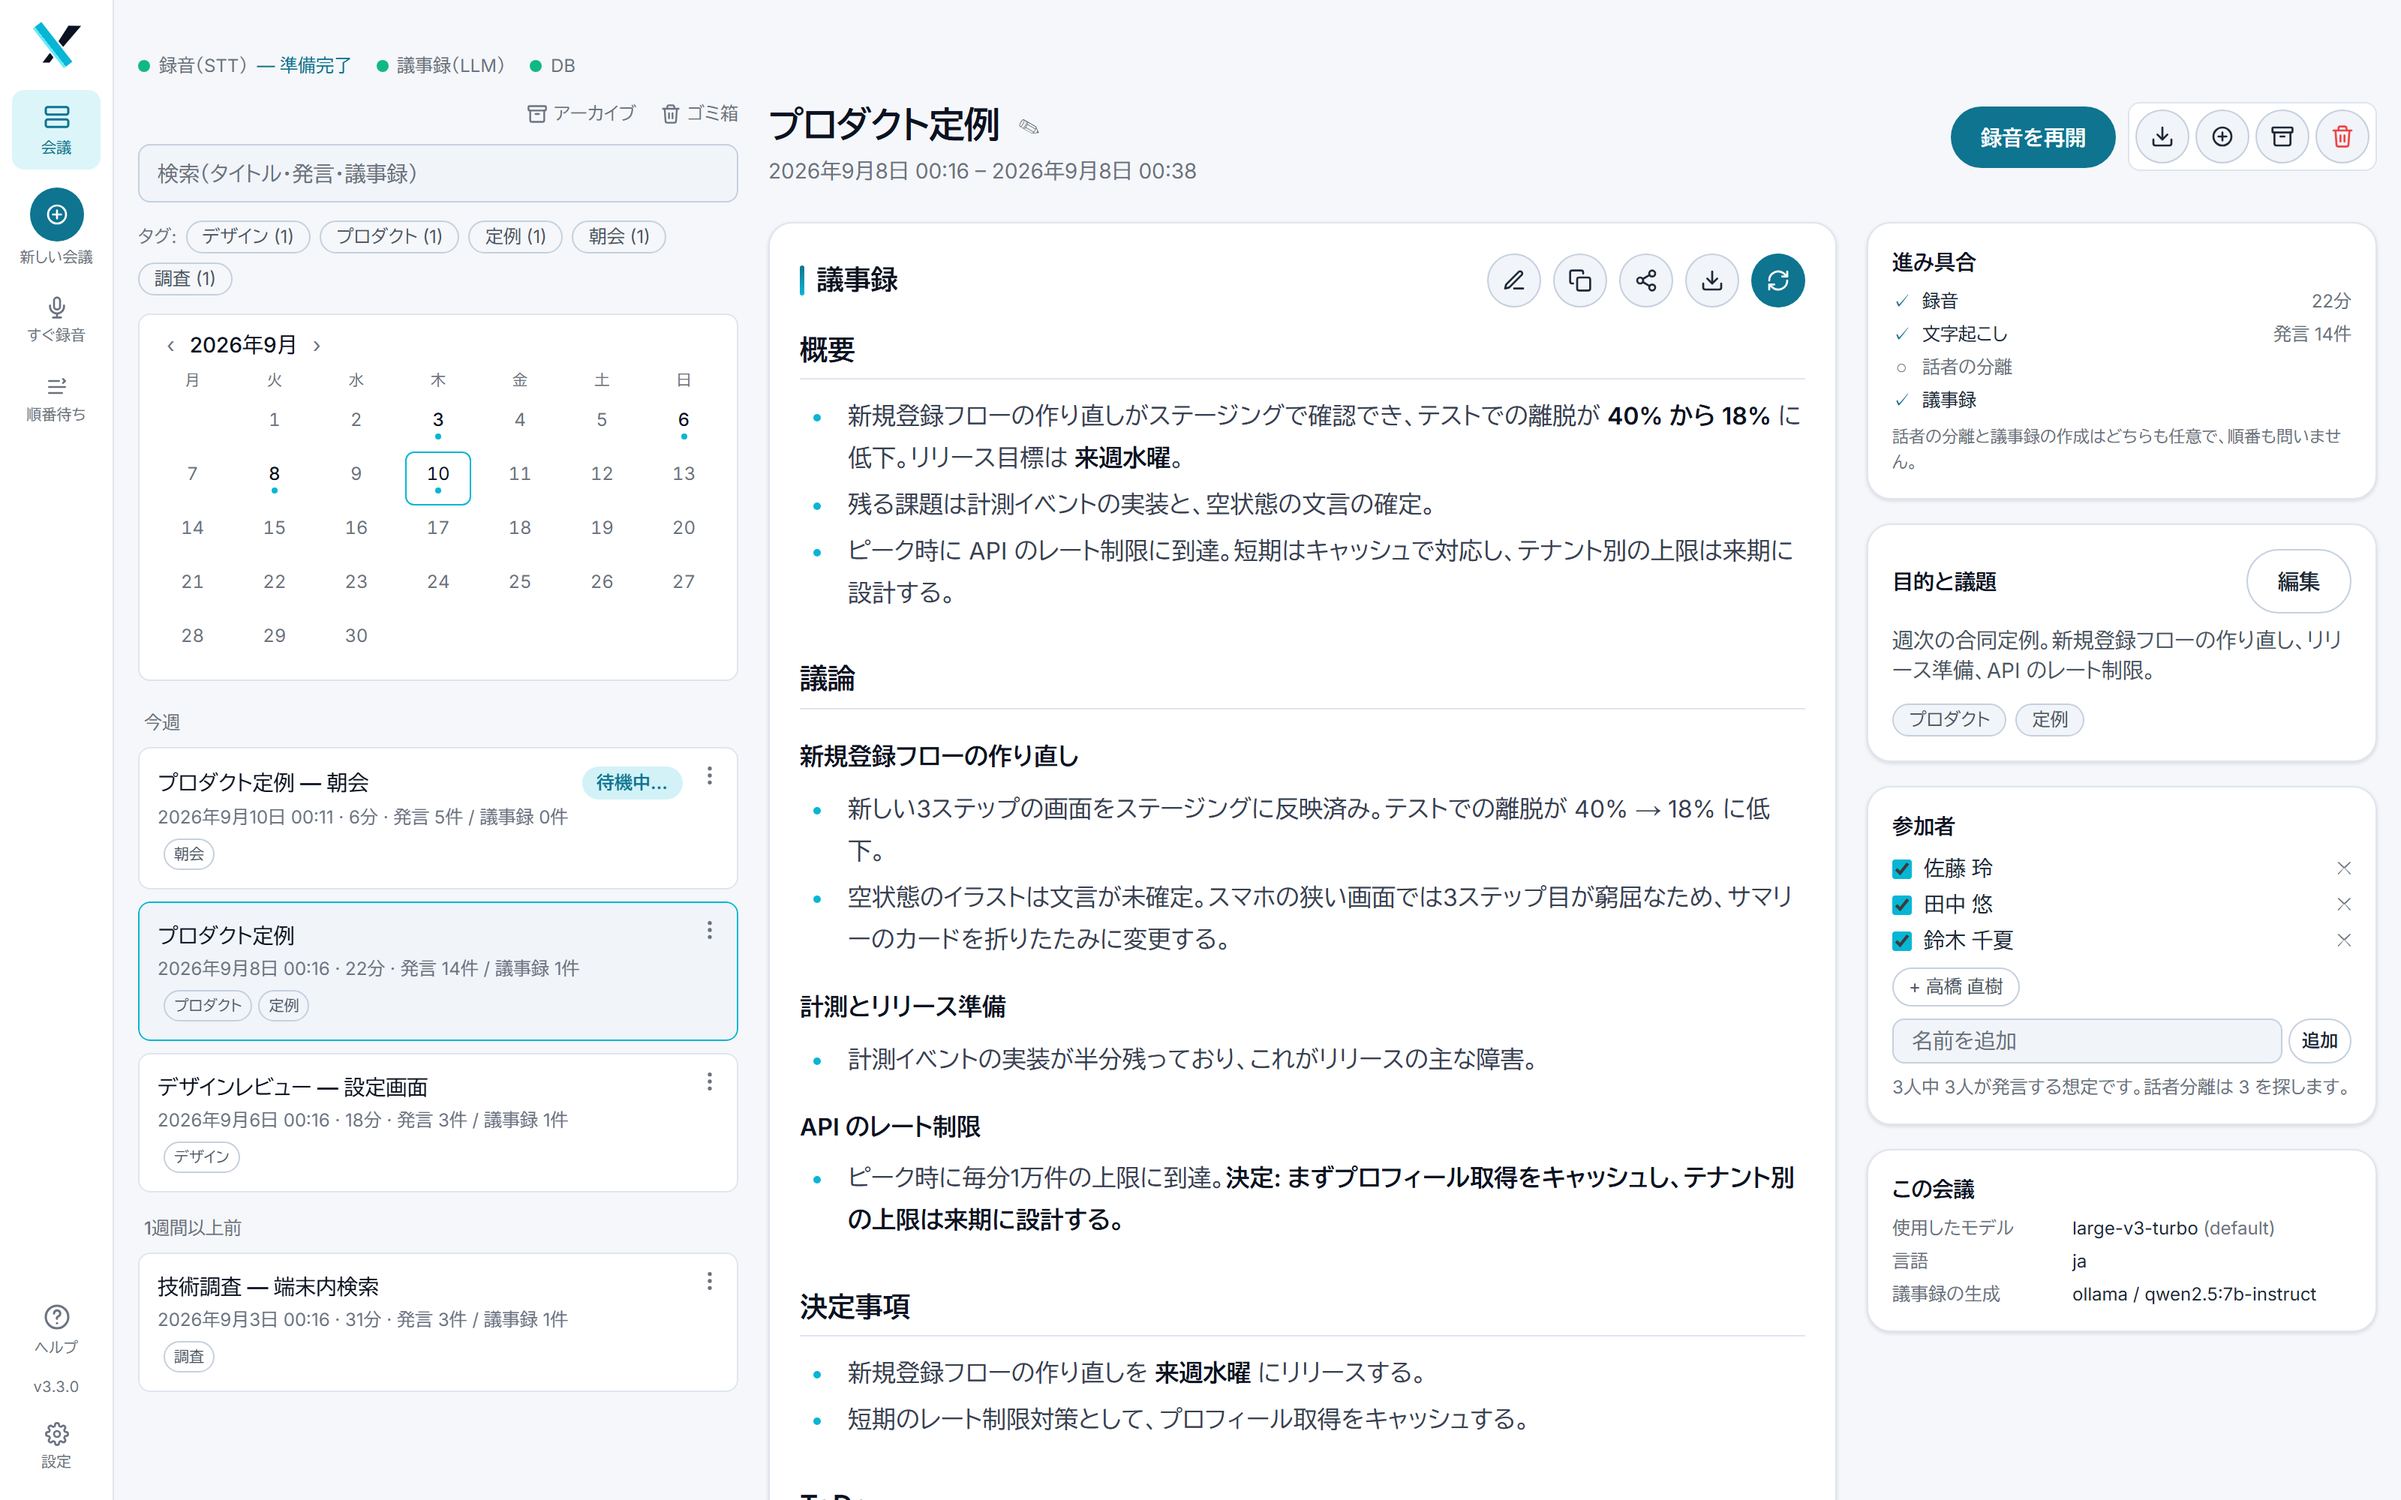
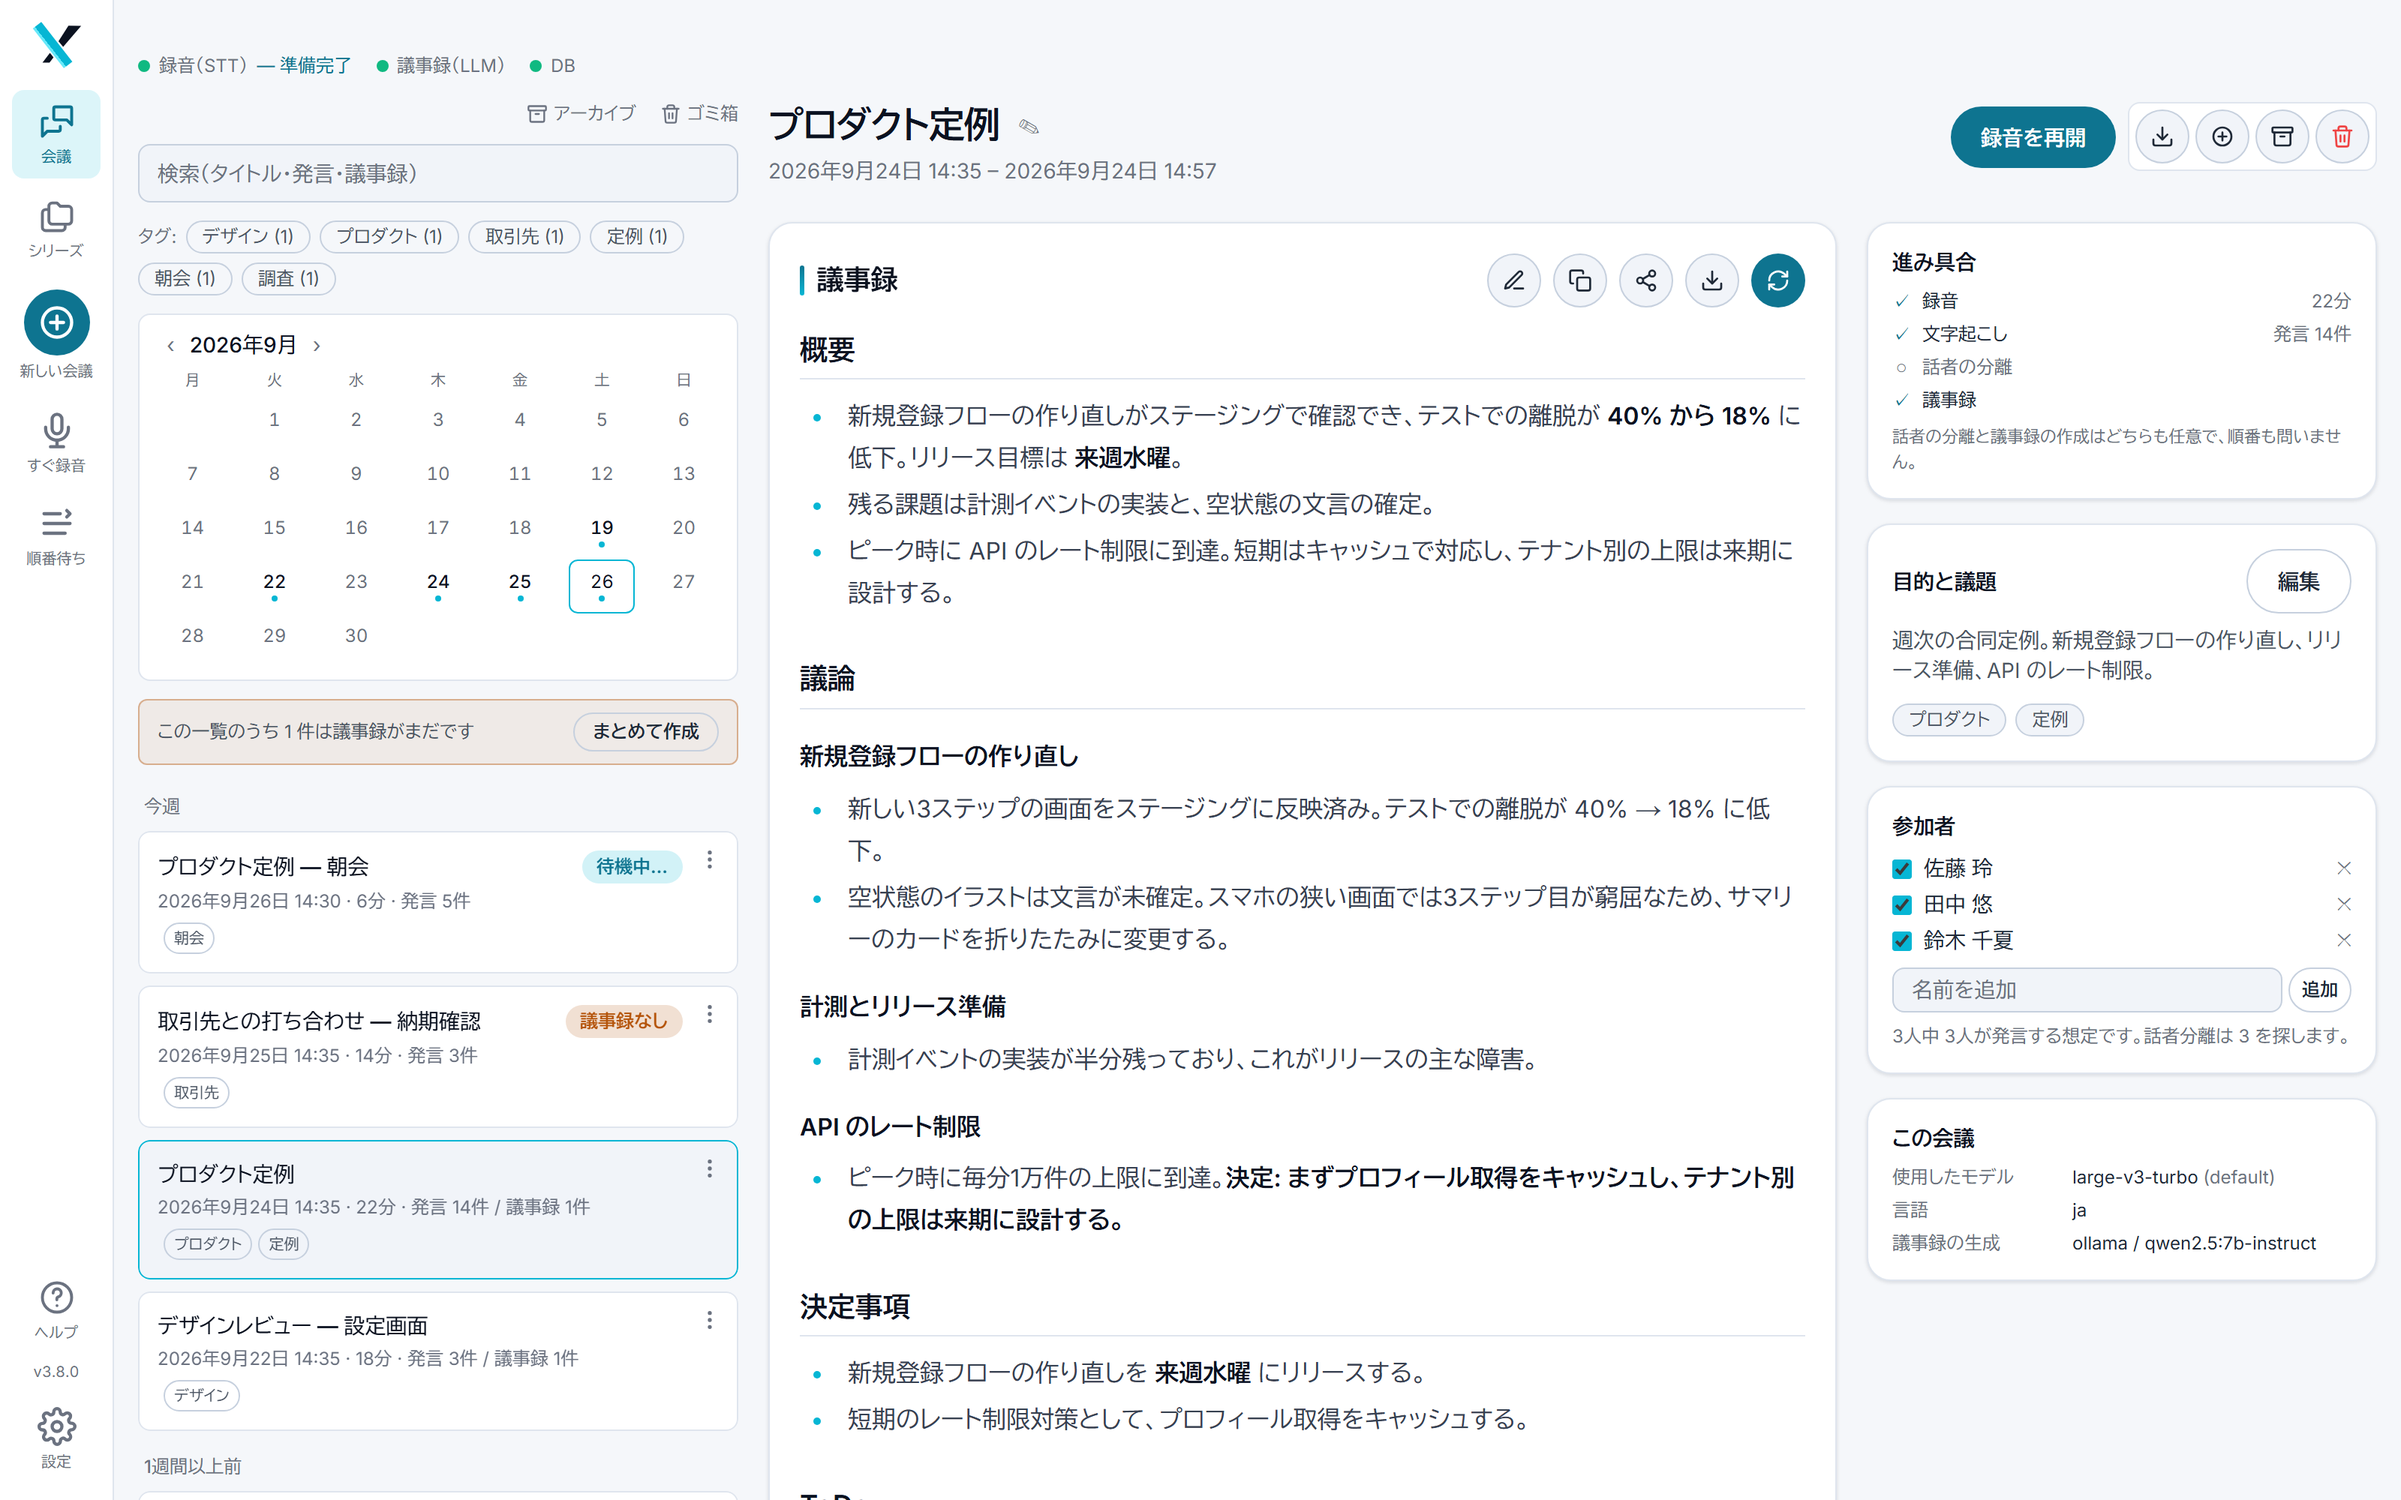
Retake the screenshots for 3.8.0
The README's screenshots dated from 3.3.0, and the part of the screen that
changed since -- the meeting list -- was in them. They are retaken, English
and Japanese, and the demo data now shows what the list does today: one
meeting recorded and not written up, so the list shows "No minutes" on its
card and the bar that offers to write them all.

Retaking them showed the recipe was incomplete, and one detail wrong:

- Nothing stood in for Ollama, so the first attempt photographed a red
  "Cannot reach Ollama" across the top. scripts/shots-stubs.mjs now stands in
  for Ollama as well as the transcription service, and answers the way a
  working install does -- including that a demo meeting's recording is still
  kept, without which "Resume recording" is missing from minutes.png.
- The recipe named port 58000 (inside a range Windows reserves on some
  machines) and an STT_URL nothing reads. It now uses STT_WS_URL, read at
  runtime, and the stand-ins' ports.
- The Japanese demo meetings were seeded with sttLanguage "en", so a Japanese
  meeting's page said its language was English.

The drawn workflow.png was checked against the docs too. It makes no claim
that has become false; it just does not show the Android app, and redrawing
it is a job for a person rather than this script.

diff --git a/docs/screenshots/README.md b/docs/screenshots/README.md
@@ -9,7 +9,7 @@ app is for, these say what it looks like.
 | Filename | What it shows | Retaken by |
 | --- | --- | --- |
 | `recording.png` | Recording screen: model state, live transcript, and the recording control at the bottom. | `shoot-screenshots.mjs` |
-| `minutes.png` | Meeting detail: minutes in the middle, and the column beside them — progress, agenda, who was there, what it was recorded with. | `shoot-screenshots.mjs` |
+| `minutes.png` | Meeting detail: minutes in the middle, the column beside them — progress, agenda, who was there, what it was recorded with — and the list, with one meeting still waiting for its minutes. | `shoot-screenshots.mjs` |
 | `workflow.png` | README hero: the six-step pipeline (record → transcribe → speakers → minutes → ask → series), a band of what each kind of hardware does, and a strip on encryption, accounts, search and self-hosting. **Says more than any drawing can**, which is why it is the hero and not one. | by hand |
 | `demo.gif` | Usage section: slideshow of home → new meeting → recording → minutes. | `shoot-demo-gif.mjs` |
 | `social-preview.png` | 1280×640 card for GitHub → repo Settings → Social preview (upload manually; not referenced by the README). Cropped from [`../illustrations/hero.png`](../illustrations/README.md) — a card is seen at thumbnail size in a feed, where a drawing carries and an infographic does not. | by hand |
@@ -30,9 +30,10 @@ to be shown.
 
 They come from a **throwaway instance**, never from a real one — a production install has
 confidential meetings in it, and the settings page shows real API keys. The recipe below
-keeps every port clear of a running install (`3000` / `8000` / `5432`) and stubs the STT
-service, because the health indicator asks it to load Whisper and that would take the GPU
-from whatever is using it.
+keeps every port clear of a running install (`3000` / `8000` / `5432` / `11434`) and stands in
+for the STT service and Ollama (`scripts/shots-stubs.mjs`): the health indicator would ask the
+real STT service to load Whisper, taking the GPU from whatever is using it, and a missing
+Ollama is photographed as a red *Cannot reach Ollama* across the top of every shot.
 
 ```bash
 # 1. a database of its own
@@ -43,17 +44,20 @@ export DATABASE_URL="postgresql://voxinq:shots@127.0.0.1:55432/voxinq"
 npx prisma migrate deploy
 node scripts/seed-demo.mjs            # LOCALE=ja for the Japanese set
 
-# 2. the app, on a port nothing else wants, with auth off and its own settings file
+# 2. stand-ins for the STT service (8103) and Ollama (11435), in another terminal
+node scripts/shots-stubs.mjs
+
+# 3. the app, on a port nothing else wants, with auth off and its own settings file
 export VOXINQ_SETTINGS_PATH=/tmp/shots-settings.json   # not the real settings.json
-export NEXT_PUBLIC_STT_WS_URL="ws://127.0.0.1:58000/ws"
-export STT_URL="http://127.0.0.1:58000"                # a stub, not the real service
-export STT_INTERNAL_URL="http://127.0.0.1:58000"
+export STT_WS_URL="ws://127.0.0.1:8103/ws"             # read at runtime: no rebuild
+export STT_INTERNAL_URL="http://127.0.0.1:8103"
+export OLLAMA_BASE_URL="http://127.0.0.1:11435"
 export APP_PASSWORD="" NETWORK_MODE=lan
 export TZ="Asia/Tokyo"                                 # a container has none; without it the
                                                        # dates in the shots are UTC
 npm run build && npx next start -p 3100
 
-# 3. the photographs
+# 4. the photographs
 npm i -D playwright && npx playwright install chromium
 BASE_URL=http://127.0.0.1:3100 node scripts/shoot-screenshots.mjs
 BASE_URL=http://127.0.0.1:3100 node scripts/shoot-demo-gif.mjs   # needs ffmpeg on PATH
@@ -76,9 +80,14 @@ for `recording.png` and `minutes.png` because the README puts them side by side.
 is under that 1536 threshold, so the last frame — the one the slideshow travels towards — showed
 a stack of detail cards and no minutes.
 
-The STT service the recipe stubs is asked for its health, and the recording screen shows the
-answer. Report a configuration that exists (which model, which backend, whether live
-transcription is available) rather than letting a bare stub photograph its own fallback.
+The stand-ins are asked for their health, and the pages show the answer, so they report a
+configuration that exists — which model, which backend, live transcription available, Ollama
+up — rather than a bare stub photographing its own fallback. They also say every demo meeting's
+recording is still kept; without that, **Resume recording** is missing from `minutes.png`.
+
+The demo data includes one meeting that was recorded and not written up, so the list shows
+what the app does about that: **No minutes** on its card, and the bar that offers to write
+them all. The Japanese set is seeded in Japanese down to the meeting's recorded language.
 
 ## Doing it by hand
 
